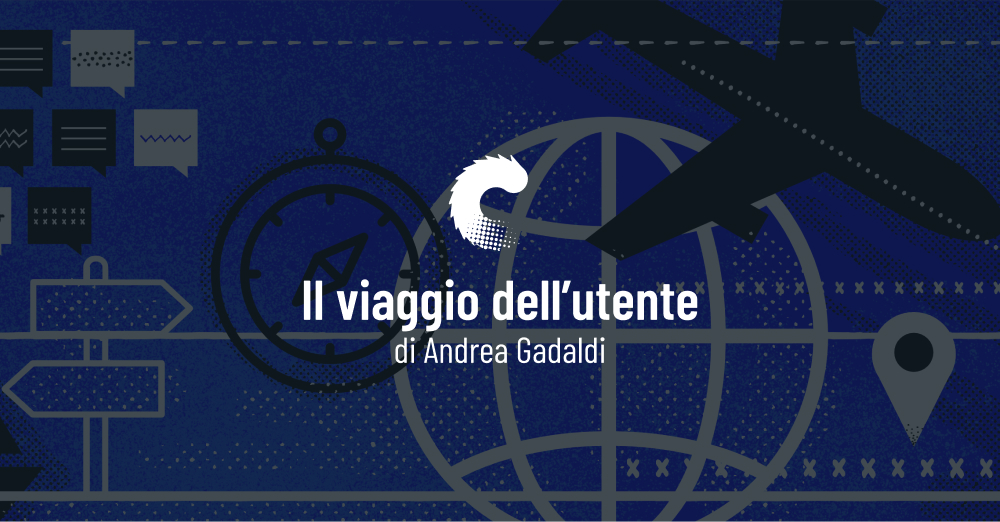
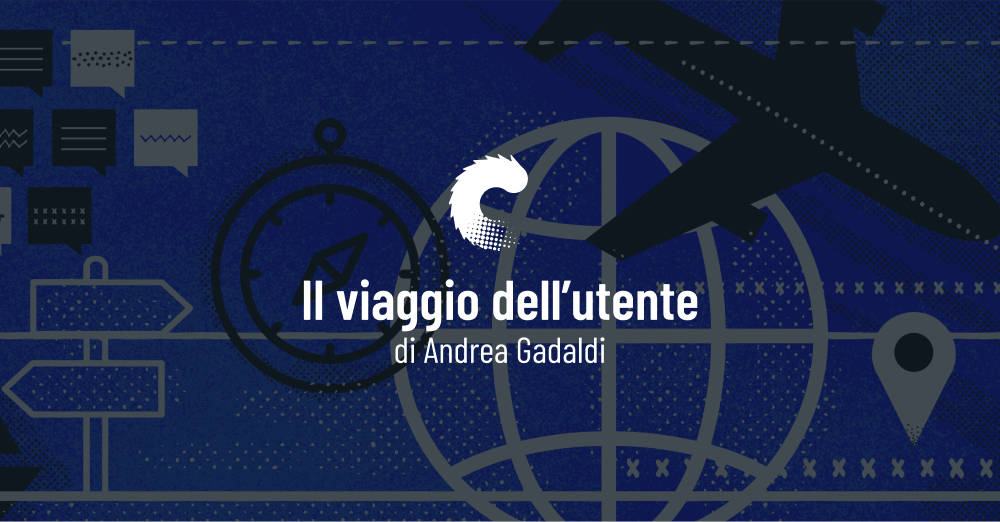
Blog post service blueprint - fix images size

Changed region(s): [[0.465, 0.4291, 0.496, 0.4598]]

diff --git a/_posts/2022-04-04-service-blueprint.md b/_posts/2022-04-04-service-blueprint.md
@@ -15,7 +15,7 @@ author: [andrea]
 Qual è l'itinerario del nostro viaggio? Ovvero: perché mappare quello che c'è permette di avventurarsi preparati nell'ignoto.
 </div>
 
-<figure style="text-align:center"><img src="/assets/images/post-content/service-blueprint/service-blueprint_l_001.png" alt="obiettivi" /></figure>
+<figure style="text-align:center"><img src="/assets/images/post-content/service-blueprint/service-blueprint_l_001.jpg" alt="obiettivi" /></figure>
 
 # Partire dall'arrivo
 
@@ -31,7 +31,7 @@ In questo caso si tratta di un servizio già in uso: abbiamo proposto quindi un 
 
 # Qual è il percorso giusto?
 
-<figure style="text-align:center"><img src="/assets/images/post-content/service-blueprint/service-blueprint_s_001.png" alt="obiettivi" /></figure>
+<figure style="text-align:center"><img src="/assets/images/post-content/service-blueprint/service-blueprint_s_001.jpg" alt="obiettivi" /></figure>
 
 <cite>*Pensate a un capo spedizione che ha già un itinerario definito per il proprio percorso avventuroso ma che vorrebbe migliorarlo, come può farlo?*</cite>
 
@@ -43,7 +43,7 @@ Sono presenti vari strumenti a seconda dell'obiettivo e del dettaglio che voglia
 
 # Service Blueprint
 
-<figure style="text-align:center"><img src="/assets/images/post-content/service-blueprint/service-blueprint_s_002.png" alt="obiettivi" /></figure>
+<figure style="text-align:center"><img src="/assets/images/post-content/service-blueprint/service-blueprint_s_002.jpg" alt="obiettivi" /></figure>
 
 <cite>*La spedizione è formata da più tappe e ogni tappa ha più passaggi, non gestiti solo dagli avventurieri, quindi il capo spedizione ha bisogno di avere una visione d'insieme di tutto il percorso.*</cite>
 
@@ -67,7 +67,7 @@ Si tratta di un diagramma che mostra l'**intero processo del servizio**, elencan
 
 # Chi partecipa al viaggio? 
 
-<figure style="text-align:center"><img src="/assets/images/post-content/service-blueprint/service-blueprint_s_003.png" alt="obiettivi" /></figure>
+<figure style="text-align:center"><img src="/assets/images/post-content/service-blueprint/service-blueprint_s_003.jpg" alt="obiettivi" /></figure>
 
 <cite>*Qualcuno partirà dalla sede principale, qualcun altro salirà sull'aereo o su una nave in una tappa intermedia, qualcuno invece attenderà al capolinea...*</cite>
 
@@ -85,7 +85,7 @@ Queste proto-personas sono basate sugli utenti attuali del servizio ma sono pers
 
 # Si parte!
 
-<figure style="text-align:center"><img src="/assets/images/post-content/service-blueprint/service-blueprint_s_004.png" alt="obiettivi" /></figure>
+<figure style="text-align:center"><img src="/assets/images/post-content/service-blueprint/service-blueprint_s_004.jpg" alt="obiettivi" /></figure>
 
 <cite>*La nostra mappa dovrà contenere ogni itinerario di ogni avventuriero, guida, autista o spedizioniere.*</cite>
 
@@ -103,7 +103,7 @@ In questo modo possiamo capire i **rapporti cross-funzionali** tra utenti e sist
 
 # Come abbiamo svolto questa attività?
 
-<figure style="text-align:center"><img src="/assets/images/post-content/service-blueprint/service-blueprint_s_005.png" alt="obiettivi" /></figure>
+<figure style="text-align:center"><img src="/assets/images/post-content/service-blueprint/service-blueprint_s_005.jpg" alt="obiettivi" /></figure>
 
 Io, Mariachiara e Emanuele abbiamo fatto da moderatori durante il workshop: sono state create le proto-personas nella prima parte della mattinata e, nel resto della giornata è stato esposto il flusso attuale, discusso in ogni singolo passaggio, e successivamente arricchito dagli spunti emersi durante la presentazione.
 
@@ -111,7 +111,7 @@ Fondamentale per noi svolgere queste attività in presenza: anche da remoto è p
 
 Abbiamo **diviso i partecipanti in gruppi** e ogni gruppo ha rappresentato un utente del sistema: a questo punto si sono verificati dibattiti a ogni passaggio.
 
-<figure style="text-align:center"><img src="/assets/images/post-content/service-blueprint/service-blueprint_s_006.png" alt="obiettivi" /></figure>
+<figure style="text-align:center"><img src="/assets/images/post-content/service-blueprint/service-blueprint_s_006.jpg" alt="obiettivi" /></figure>
 
 <cite>*A questo punto è chiaro che non c'è quindi un singolo capo ma un consiglio riunito che non dovrà solo osservare la mappa ma viverla, come se fossero gli avventurieri stessi, le guide, gli autisti o gli spedizionieri.*</cite>
 
@@ -119,7 +119,7 @@ Sono emerse considerazioni che hanno stupito gli interlocutori: convinti che alc
 
 <cite>*Uno dei consiglieri è certo che ci sia un ponte in legno che attraversa un fiume, mentre gli esploratori hanno sempre usato una liana per passare da una riva all'altra.*</cite>
 
-<figure style="text-align:center"><img src="/assets/images/post-content/service-blueprint/service-blueprint_s_007.png" alt="obiettivi" /></figure>
+<figure style="text-align:center"><img src="/assets/images/post-content/service-blueprint/service-blueprint_s_007.jpg" alt="obiettivi" /></figure>
 
 L'attività di mappatura che è stata svolta ha portato alla luce varie **criticità** che sono state confermate dagli stakeholder e che abbiamo potuto trasformare insieme in opportunità di miglioramento direttamente durante l'attività di co-design.
 
@@ -133,7 +133,7 @@ Ma non è detto che tutti siano favorevoli al cambiamento...
 
 # Qual è stato l'output?
 
-<figure style="text-align:center"><img src="/assets/images/post-content/service-blueprint/service-blueprint_s_008.png" alt="obiettivi" /></figure>
+<figure style="text-align:center"><img src="/assets/images/post-content/service-blueprint/service-blueprint_s_008.jpg" alt="obiettivi" /></figure>
 
 <cite>*Il consiglio sa che ci vorrà tempo prima di ottimizzare tutto ma ora ha una visione d'insieme sulla quale riflettere per poi intervenire*</cite>
 
@@ -145,7 +145,7 @@ Ma non è detto che tutti siano favorevoli al cambiamento...
 
 # Conclusioni
 
-<figure style="text-align:center"><img src="/assets/images/post-content/service-blueprint/service-blueprint_l_002.png" alt="obiettivi" /></figure>
+<figure style="text-align:center"><img src="/assets/images/post-content/service-blueprint/service-blueprint_l_002.jpg" alt="obiettivi" /></figure>
 
 Alla fine della giornata di workshop è stato chiaro per il cliente che il **design** non è solo una serie di schermate ma **è progettazione e analisi**.
 
